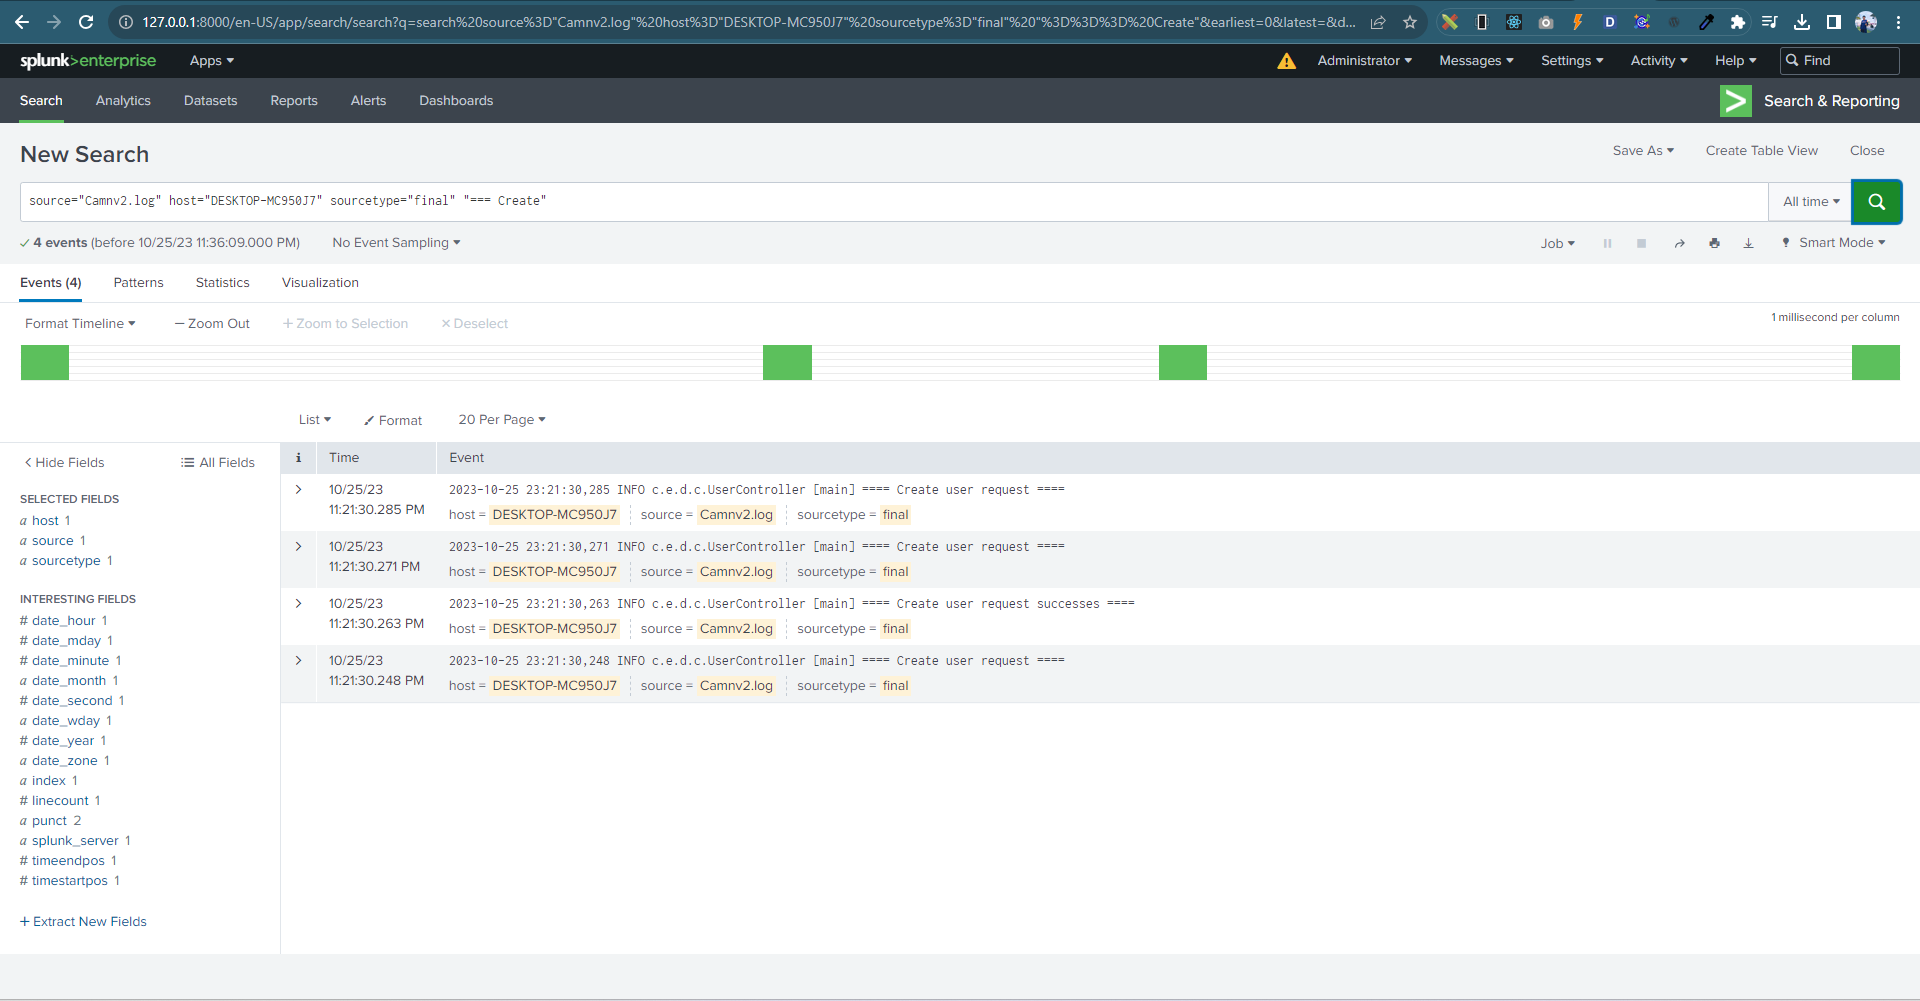
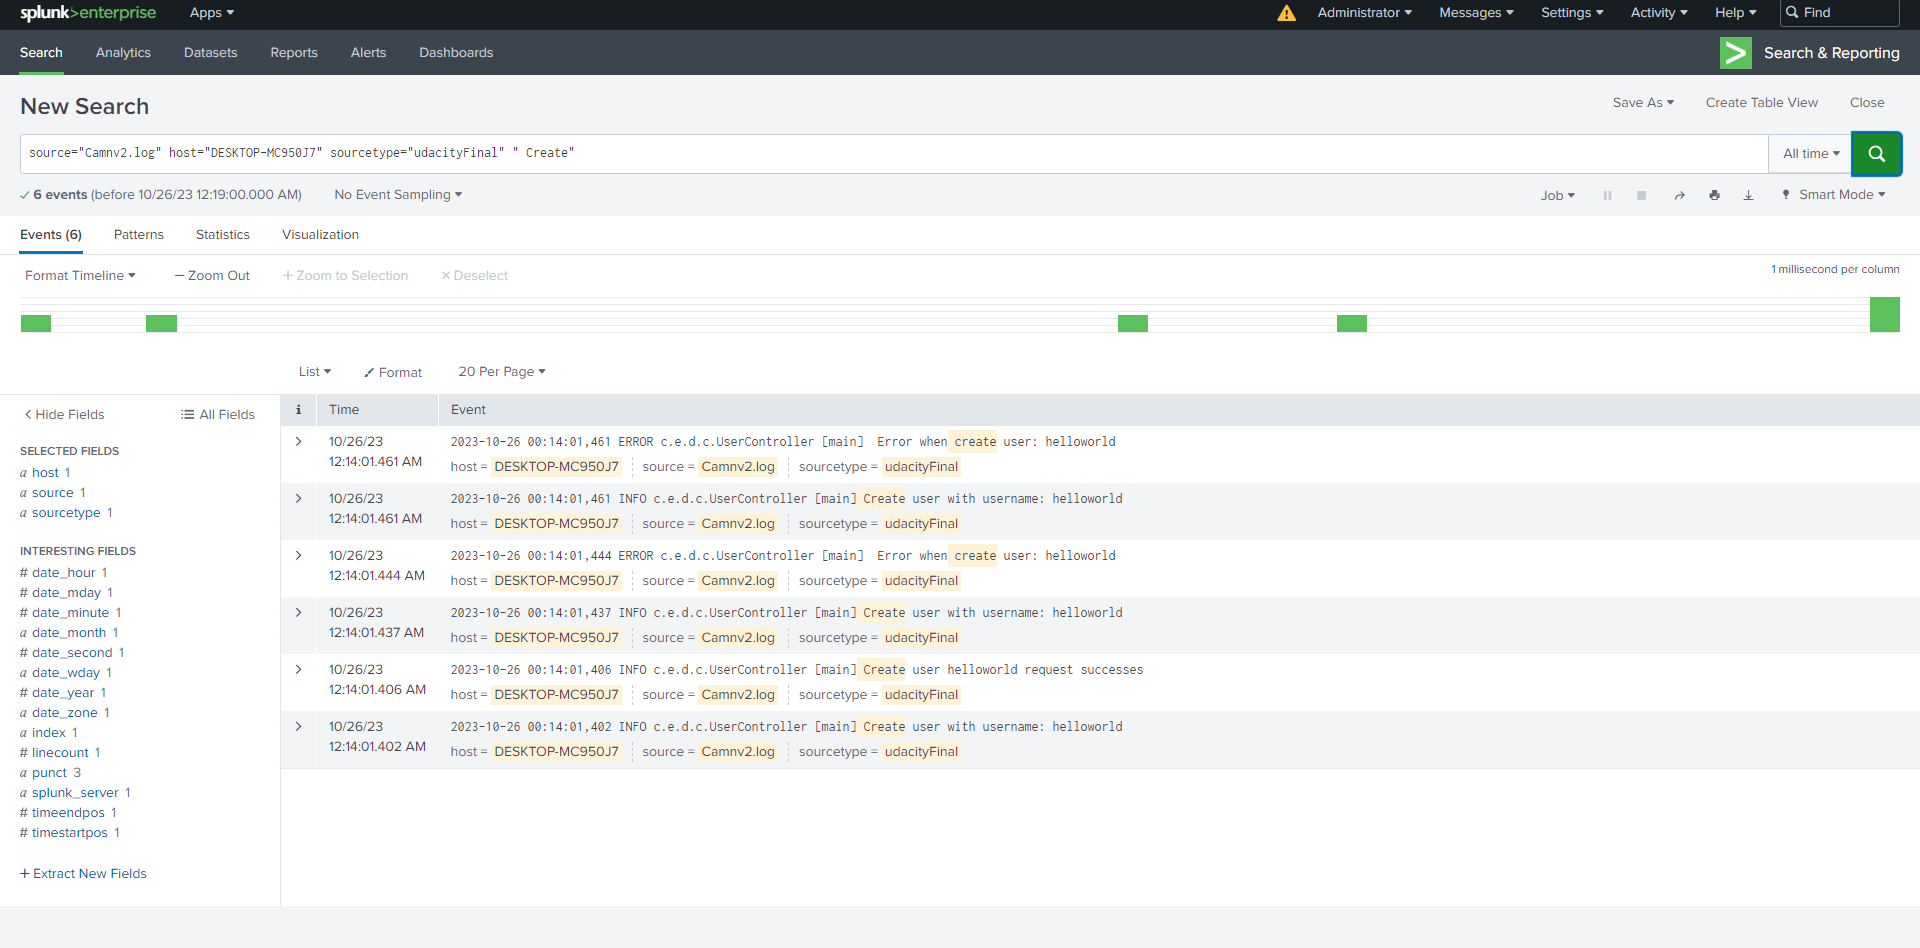
update photo

diff --git a/starter_code/src/test/java/com/example/demo/controllers/UserControllerTest.java b/starter_code/src/test/java/com/example/demo/controllers/UserControllerTest.java
@@ -58,7 +58,7 @@ public class UserControllerTest {
 	void createUser_passwordLengthThan7() {
 		Mockito.doReturn(new Cart()).when(cartRepository).save(Mockito.any());
 		CreateUserRequest request = createUserRequest();
-		request.setPassword("qwerasdaf1234");
+		request.setPassword("helloworld");
 		ResponseEntity<User> response = userController.createUser(request);
 		assertEquals(HttpStatus.BAD_REQUEST, response.getStatusCode());
 	}
@@ -67,8 +67,8 @@ public class UserControllerTest {
 	void createUserInvalidConfirmPassword() {
 		Mockito.doReturn(new Cart()).when(cartRepository).save(Mockito.any());
 		CreateUserRequest request = createUserRequest();
-		request.setPassword("qwerasdaf1234");
-		request.setConfirmPassword("qwerasdaf12345");
+		request.setPassword("helloworld");
+		request.setConfirmPassword("helloworlderr");
 		ResponseEntity<User> response = userController.createUser(request);
 		assertEquals(HttpStatus.BAD_REQUEST, response.getStatusCode());
 	}
@@ -77,15 +77,15 @@ public class UserControllerTest {
 	void createUserSuccess() {
 		Mockito.doReturn(new Cart()).when(cartRepository).save(Mockito.any());
 		CreateUserRequest request = createUserRequest();
-		request.setPassword("qwerasdaf1234");
-		request.setConfirmPassword("qwerasdaf1234");
+		request.setPassword("helloworld");
+		request.setConfirmPassword("helloworld");
 		ResponseEntity<User> response = userController.createUser(request);
 		assertEquals(HttpStatus.OK, response.getStatusCode());
 	}
 	
 	private CreateUserRequest createUserRequest() {
 		CreateUserRequest request = new CreateUserRequest();
-		request.setUsername("qwerasdaf1234");
+		request.setUsername("helloworld");
 		return request;
 	}
 }

diff --git a/starter_code/src/test/java/com/example/demo/controllers/OrderControllerTest.java b/starter_code/src/test/java/com/example/demo/controllers/OrderControllerTest.java
@@ -35,8 +35,8 @@ public class OrderControllerTest {
 
 	@Test
 	void submitNotFoundUser() {
-		Mockito.doReturn(null).when(userRepository).findByUsername("invalidUsername");
-		ResponseEntity<UserOrder> response = orderController.submit("invalidUsername");
+		Mockito.doReturn(null).when(userRepository).findByUsername("username");
+		ResponseEntity<UserOrder> response = orderController.submit("username");
 		assertEquals(HttpStatus.NOT_FOUND, response.getStatusCode());
 	}
 
@@ -57,7 +57,6 @@ public class OrderControllerTest {
 		Mockito.doReturn(new User()).when(userRepository).findByUsername("Username");
 		Mockito.doReturn(new ArrayList<User>()).when(orderRepository).findByUser(any());
 		ResponseEntity<List<UserOrder>> response = orderController.getOrdersForUser("Username");
-		//
 		assertEquals(HttpStatus.OK, response.getStatusCode());
 	}
 
@@ -65,7 +64,6 @@ public class OrderControllerTest {
 	void getOrdersForUserNotFoundUser() {
 		Mockito.doReturn(null).when(userRepository).findByUsername("Username");
 		ResponseEntity<List<UserOrder>> response = orderController.getOrdersForUser("Username");
-		//
 		assertEquals(HttpStatus.NOT_FOUND, response.getStatusCode());
 	}
 
@@ -85,9 +83,9 @@ public class OrderControllerTest {
 
 		Item item = new Item();
 		item.setId(1L);
-		item.setName("Item");
+		item.setName("ItemNm");
 		item.setPrice(BigDecimal.ONE);
-		item.setDescription("Item description");
+		item.setDescription("");
 
 		List<Item> items = new ArrayList<>();
 		items.add(item);

diff --git a/starter_code/src/main/java/com/example/demo/controllers/UserController.java b/starter_code/src/main/java/com/example/demo/controllers/UserController.java
@@ -43,13 +43,14 @@ public class UserController {
 	
 	@GetMapping("/{username}")
 	public ResponseEntity<User> findByUserName(@PathVariable String username) {
+		log.info("Found user with username: {}" , username);
 		User user = userRepository.findByUsername(username);
 		return user == null ? ResponseEntity.notFound().build() : ResponseEntity.ok(user);
 	}
 
 	@PostMapping("/create")
 	public ResponseEntity<User> createUser(@RequestBody CreateUserRequest createUserRequest) {
-		log.info("==== Create user request ====");
+		log.info("Create user with username: {}" ,createUserRequest.getUsername());
 		User user = new User();
 		user.setUsername(createUserRequest.getUsername());
 		Cart cart = new Cart();
@@ -57,14 +58,14 @@ public class UserController {
 		user.setCart(cart);
 		if (createUserRequest.getPassword().length() < 7 ||
 				!createUserRequest.getPassword().equals(createUserRequest.getConfirmPassword())) {
-			log.error("==== Error when create user ====");
+			log.error(" Error when create user: {}" ,createUserRequest.getUsername());
 			return ResponseEntity.badRequest().build();
 		}
 
 		user.setPassword(bCryptPasswordEncoder.encode(createUserRequest.getPassword()));
 
 		userRepository.save(user);
-		log.info("==== Create user request successes ====");
+		log.info("Create user {} request successes", createUserRequest.getUsername());
 		return ResponseEntity.ok(user);
 	}
 	

diff --git a/starter_code/src/test/java/com/example/demo/controllers/CartControllerTest.java b/starter_code/src/test/java/com/example/demo/controllers/CartControllerTest.java
@@ -80,7 +80,6 @@ public class CartControllerTest {
 	void removeFromCart_NotFoundUser() {
 		Mockito.doReturn(null).when(userRepository).findByUsername(Mockito.any());
 		ResponseEntity<Cart> responseEntity = cartController.removeFromcart(new ModifyCartRequest());
-		// 
 		assertEquals(HttpStatus.NOT_FOUND, responseEntity.getStatusCode());
 	}
 	
@@ -89,7 +88,6 @@ public class CartControllerTest {
 		Mockito.doReturn(new User()).when(userRepository).findByUsername(Mockito.any());
 		Mockito.doReturn(Optional.empty()).when(itemRepository).findById(Mockito.any());
 		ResponseEntity<Cart> responseEntity = cartController.removeFromcart(new ModifyCartRequest());
-		//
 		assertEquals(HttpStatus.NOT_FOUND, responseEntity.getStatusCode());
 	}
 	

diff --git a/starter_code/src/test/java/com/example/demo/controllers/ItemControllerTest.java b/starter_code/src/test/java/com/example/demo/controllers/ItemControllerTest.java
@@ -59,9 +59,9 @@ public class ItemControllerTest {
 		List<Item> items = new ArrayList<>();
 		Item item = new Item();
 		item.setId(1L);
-		item.setName("item");
+		item.setName("itemNm");
 		item.setPrice(BigDecimal.ONE);
-		item.setDescription("item description");
+		item.setDescription("");
 		items.add(item);
 		Mockito.doReturn(items).when(itemRepository).findByName("item");
 		ResponseEntity<List<Item>> responseEntity = itemController.getItemsByName("item");
